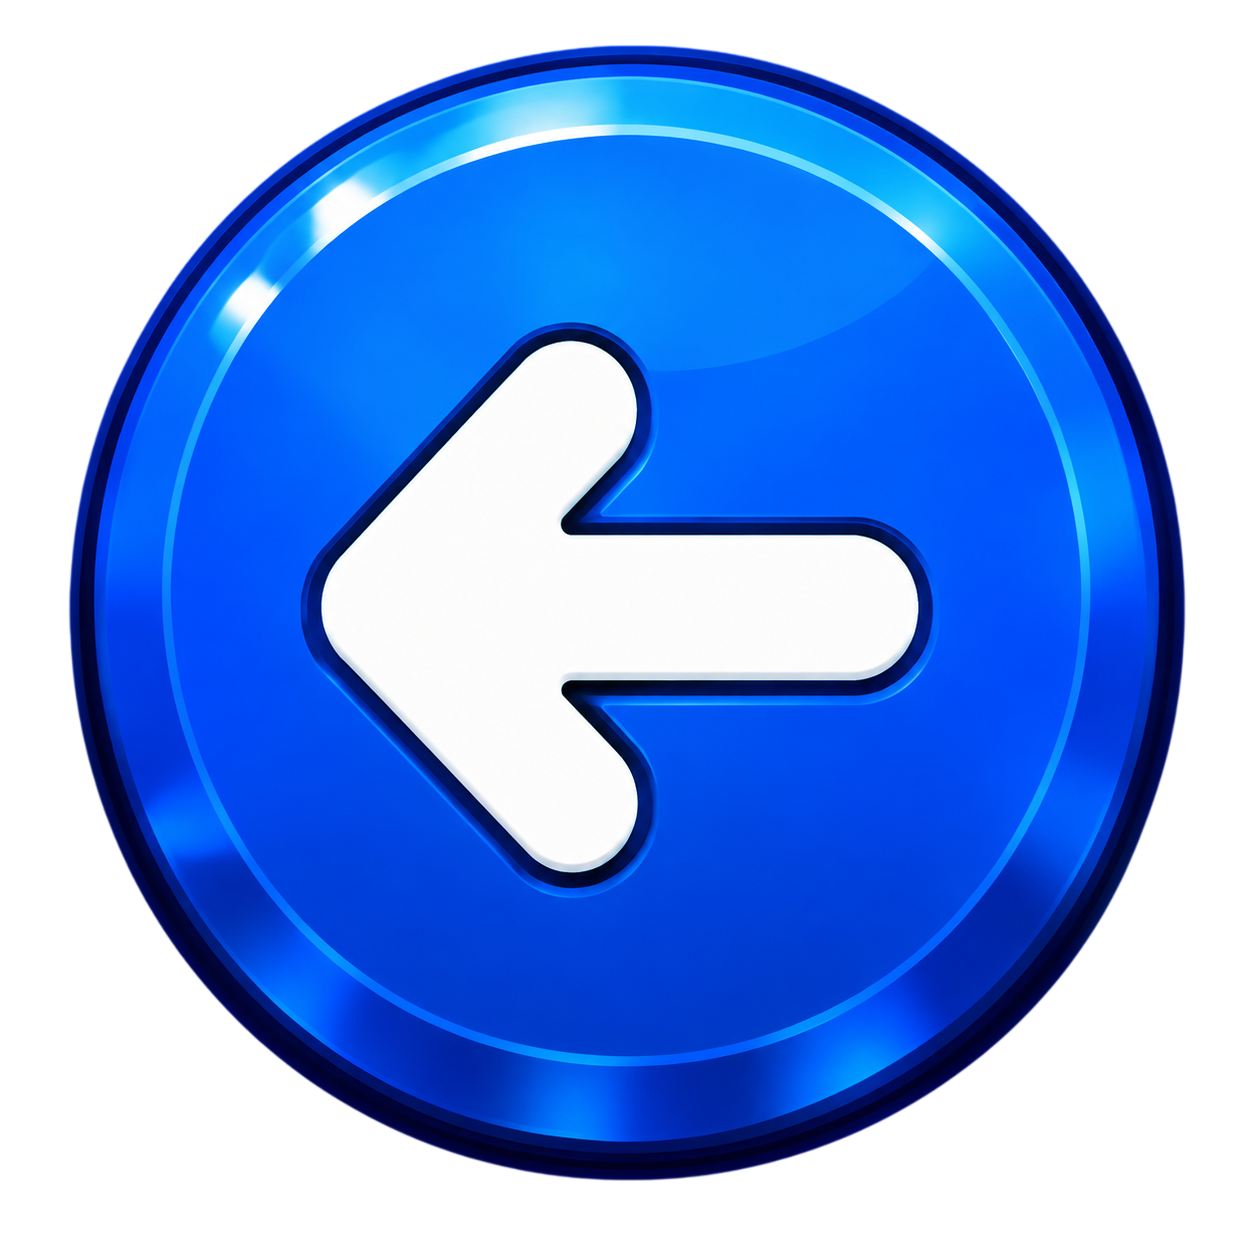
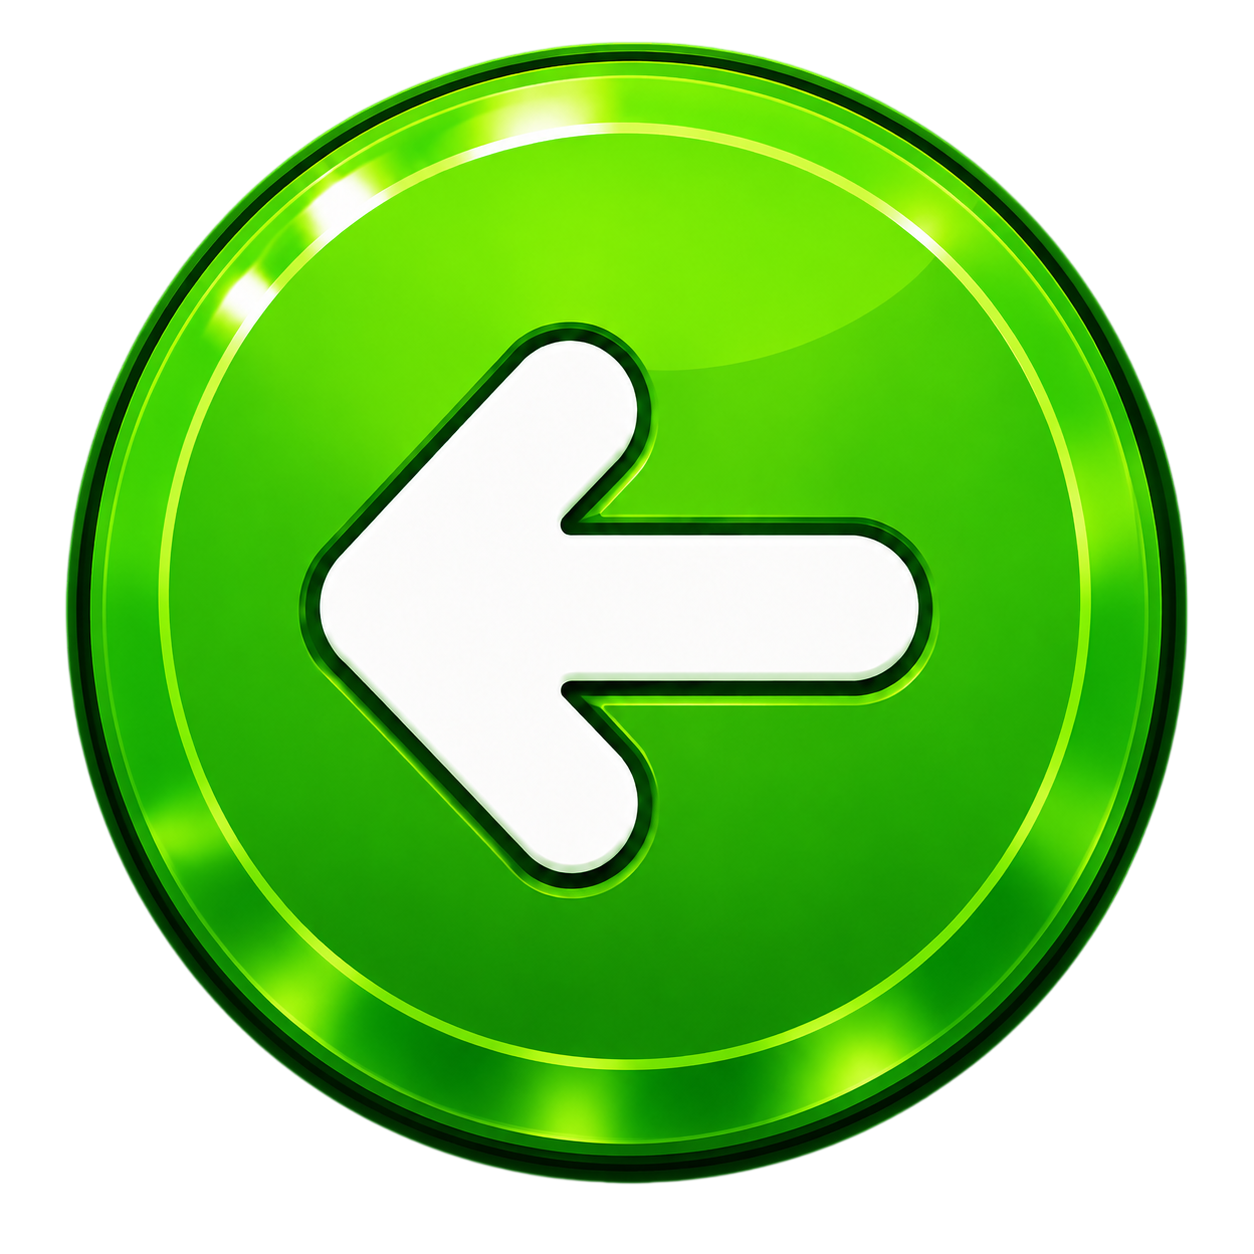
Update image assets, including a new blue button background, and refactor gameplay board dimensions for improved layout consistency and card scaling in various scenes.

diff --git a/src/game/gameplay/MatchingBoard.ts b/src/game/gameplay/MatchingBoard.ts
@@ -1,7 +1,13 @@
 import Phaser from 'phaser';
 
 import { CardView } from './CardView';
-import { gridForCellCount, type GridSize } from '@game/campaign/mapConfig';
+import {
+  BOARD_CARD_FILL,
+  BOARD_CARD_HEIGHT_FILL,
+  BOARD_SIZE_ROWS,
+  gridForCellCount,
+  type GridSize,
+} from '@game/campaign/mapConfig';
 
 interface BoardSlot {
   index: number;
@@ -10,7 +16,8 @@ interface BoardSlot {
 }
 
 export interface MatchingBoardLayout {
-  cardSize: number;
+  cardWidth: number;
+  cardHeight: number;
   slots: BoardSlot[];
   bounds: { x: number; y: number; width: number; height: number };
 }
@@ -18,32 +25,44 @@ export interface MatchingBoardLayout {
 export function layoutMatchingBoard(
   cellCount: number,
   area: { x: number; y: number; width: number; height: number },
-  grid?: GridSize
+  grid?: GridSize,
+  options?: { fill?: number; heightFill?: number; sizeRows?: number }
 ): MatchingBoardLayout {
   const { cols, rows } = grid ?? gridForCellCount(cellCount);
+  const fill = options?.fill ?? BOARD_CARD_FILL;
+  const heightFill = options?.heightFill ?? BOARD_CARD_HEIGHT_FILL;
+  const sizeRows = options?.sizeRows ?? BOARD_SIZE_ROWS;
   const gap = 16;
   const maxW = (area.width - gap * (cols + 1)) / cols;
-  const maxH = (area.height - gap * (rows + 1)) / rows;
-  const cardSize = Math.max(64, Math.round(Math.min(146, maxW, maxH) * 0.94));
-  const gridW = cols * cardSize + (cols - 1) * gap;
-  const gridH = rows * cardSize + (rows - 1) * gap;
+  const maxH = (area.height - gap * (sizeRows + 1)) / sizeRows;
+  const cardWidth = Math.max(64, Math.round(Math.min(146, maxW) * fill));
+  const cardHeight = Math.max(cardWidth, Math.round(maxH * heightFill));
+  const gridW = cols * cardWidth + (cols - 1) * gap;
+  const gridH = rows * cardHeight + (rows - 1) * gap;
   const gridX = area.x + (area.width - gridW) / 2;
   const gridY = area.y + (area.height - gridH) / 2;
-  const originX = gridX + cardSize / 2;
-  const originY = gridY + cardSize / 2;
+  const originX = gridX + cardWidth / 2;
+  const originY = gridY + cardHeight / 2;
 
   const slots: BoardSlot[] = [];
   for (let i = 0; i < cellCount; i += 1) {
     const col = i % cols;
     const row = Math.floor(i / cols);
+    const cardsInRow = Math.min(cols, cellCount - row * cols);
+    const rowOffset = ((cols - cardsInRow) * (cardWidth + gap)) / 2;
     slots.push({
       index: i,
-      x: originX + col * (cardSize + gap),
-      y: originY + row * (cardSize + gap),
+      x: originX + col * (cardWidth + gap) + rowOffset,
+      y: originY + row * (cardHeight + gap),
     });
   }
 
-  return { cardSize, slots, bounds: { x: gridX, y: gridY, width: gridW, height: gridH } };
+  return {
+    cardWidth,
+    cardHeight,
+    slots,
+    bounds: { x: gridX, y: gridY, width: gridW, height: gridH },
+  };
 }
 
 function shuffleInPlace<T>(items: T[]): T[] {
@@ -75,7 +94,15 @@ export function createCards(
   deck: string[]
 ): CardView[] {
   return layout.slots.map((slot, index) => {
-    const card = new CardView(scene, slot.x, slot.y, layout.cardSize, deck[index], slot.index);
+    const card = new CardView(
+      scene,
+      slot.x,
+      slot.y,
+      layout.cardWidth,
+      layout.cardHeight,
+      deck[index],
+      slot.index
+    );
     card.setDepth(10);
     return card;
   });

diff --git a/src/game/scenes/GameOverScene.ts b/src/game/scenes/GameOverScene.ts
@@ -121,8 +121,7 @@ export class GameOverScene extends Phaser.Scene {
     this.returnTo = data.returnTo ?? 'Home';
     this.doubleClaimed = !!data.doubleClaimed;
     this.doubleRequesting = false;
-    this.showDoubleCoins =
-      this.mode === 'infinity' && this.coinsEarned > 0 && !this.doubleClaimed;
+    this.showDoubleCoins = this.mode === 'infinity' && this.coinsEarned > 0 && !this.doubleClaimed;
 
     eventBus.emit('ad:context:change', { context: 'GAME_OVER' });
 
@@ -211,7 +210,7 @@ export class GameOverScene extends Phaser.Scene {
       scene: this,
       position: { x: centerX, y: buttonY },
       size: { width: BUTTON_WIDTH, height: BUTTON_HEIGHT },
-      background: { key: 'settings-button-background' },
+      background: { key: 'blue-button-background' },
       depth: 3,
       text: {
         content: t('game.retry'),
@@ -285,7 +284,7 @@ export class GameOverScene extends Phaser.Scene {
       scene: this,
       position: { x: centerX, y: buttonY },
       size: { width: BUTTON_WIDTH, height: CAMPAIGN_BUTTON_HEIGHT },
-      background: { key: 'settings-button-background' },
+      background: { key: 'blue-button-background' },
       depth: 3,
       text: {
         content: t('game.retry'),
@@ -338,7 +337,7 @@ export class GameOverScene extends Phaser.Scene {
 
   private addStarsBlock(centerX: number, y: number): void {
     this.add
-      .text(centerX, y - 46, t('game.yourStars'), {
+      .text(centerX, y - 58, t('game.yourStars'), {
         color: TEXT_COLOR,
         fontSize: '22px',
         fontStyle: 'bold',
@@ -349,8 +348,8 @@ export class GameOverScene extends Phaser.Scene {
 
     for (let i = 0; i < 3; i += 1) {
       const key = i < this.stars ? 'star-active' : 'star-inactive';
-      const star = this.add.image(centerX + (i - 1) * 64, y, key).setDepth(2);
-      star.setDisplaySize(56, 56);
+      const star = this.add.image(centerX + (i - 1) * 92, y, key).setDepth(2);
+      star.setDisplaySize(80, 80);
     }
   }
 

diff --git a/src/game/scenes/GameplayScene.ts b/src/game/scenes/GameplayScene.ts
@@ -22,8 +22,8 @@ import {
 import {
   EXTRA_TIME_SECONDS,
   FLIP_BACK_DELAY_MS,
+  BOARD_PAD_X,
   INFINITY_BOARD_SIZE,
-  INFINITY_GRID,
   INFINITY_COINS_PER_MATCH,
   INFINITY_FAST_MATCH_BONUS,
   INFINITY_FAST_MATCH_MS,
@@ -201,21 +201,16 @@ export class GameplayScene extends Phaser.Scene {
   }
 
   private buildBoard(width: number, height: number, restored?: GameRunSnapshot | null): void {
-    const top = this.mode === 'infinity' ? 220 : 250;
+    const top = 220;
     const bottom = Math.min(this.skillBar.barBottom - 24, height - 220);
     const cellCount =
       this.mode === 'infinity' ? INFINITY_BOARD_SIZE : getLevelCellCount(this.levelIndex);
-    const padX = this.mode === 'infinity' ? 64 : 24;
-    this.layout = layoutMatchingBoard(
-      cellCount,
-      {
-        x: padX,
-        y: top,
-        width: width - padX * 2,
-        height: Math.max(280, bottom - top),
-      },
-      this.mode === 'infinity' ? INFINITY_GRID : undefined
-    );
+    this.layout = layoutMatchingBoard(cellCount, {
+      x: BOARD_PAD_X,
+      y: top,
+      width: width - BOARD_PAD_X * 2,
+      height: Math.max(280, bottom - top),
+    });
 
     this.drawBoardPanel(this.layout.bounds);
 
@@ -412,7 +407,8 @@ export class GameplayScene extends Phaser.Scene {
         this,
         slot.x,
         slot.y,
-        this.layout.cardSize,
+        this.layout.cardWidth,
+        this.layout.cardHeight,
         deck[slot.index],
         slot.index
       );
@@ -660,7 +656,8 @@ export class GameplayScene extends Phaser.Scene {
         this,
         slot.x,
         slot.y,
-        this.layout.cardSize,
+        this.layout.cardWidth,
+        this.layout.cardHeight,
         saved.pairKey,
         saved.slotIndex
       );

diff --git a/src/game/campaign/mapConfig.ts b/src/game/campaign/mapConfig.ts
@@ -28,8 +28,8 @@ export const STAR_THRESHOLDS = {
 export const INFINITY_INITIAL_TIME = 60;
 export const INFINITY_MATCH_BONUS_START = 5;
 export const INFINITY_MATCH_BONUS_MIN = 3;
-/** 3×4 = 12 cards / 6 pairs. */
-export const INFINITY_BOARD_SIZE = 12;
+/** 4×5 = 20 cards / 10 pairs. */
+export const INFINITY_BOARD_SIZE = 20;
 export const INFINITY_WAVE_MATCHES = 8;
 export const INFINITY_COINS_PER_MATCH = 10;
 export const INFINITY_BASE_PAIR_SCORE = 100;
@@ -111,21 +111,17 @@ export interface GridSize {
   rows: number;
 }
 
-export const INFINITY_GRID: GridSize = { cols: 3, rows: 4 };
+/** Shared gameplay board: 4 columns; card size is computed as if the board were 5 rows. */
+export const BOARD_COLS = 4;
+export const BOARD_SIZE_ROWS = 5;
+export const BOARD_PAD_X = 64;
+export const BOARD_CARD_FILL = 0.78;
+export const BOARD_CARD_HEIGHT_FILL = 0.9;
 
-const GRID_BY_CELLS: Record<number, GridSize> = {
-  2: { cols: 2, rows: 1 },
-  4: { cols: 2, rows: 2 },
-  6: { cols: 3, rows: 2 },
-  8: { cols: 3, rows: 3 },
-  12: { cols: 3, rows: 4 },
-  16: { cols: 3, rows: 6 },
-  18: { cols: 3, rows: 6 },
-  24: { cols: 3, rows: 8 },
-};
+export const INFINITY_GRID: GridSize = { cols: BOARD_COLS, rows: BOARD_SIZE_ROWS };
 
 export function gridForCellCount(cellCount: number): GridSize {
-  return GRID_BY_CELLS[cellCount] ?? { cols: 3, rows: Math.ceil(cellCount / 3) };
+  return { cols: BOARD_COLS, rows: Math.max(1, Math.ceil(cellCount / BOARD_COLS)) };
 }
 
 /** Newest card is always included; fill the rest from newer → older. */

diff --git a/src/game/gameplay/CardView.ts b/src/game/gameplay/CardView.ts
@@ -16,7 +16,8 @@ export class CardView extends Phaser.GameObjects.Container {
     scene: Phaser.Scene,
     x: number,
     y: number,
-    cardSize: number,
+    cardWidth: number,
+    cardHeight: number,
     pairKey: string,
     slotIndex: number
   ) {
@@ -25,20 +26,21 @@ export class CardView extends Phaser.GameObjects.Container {
     this.slotIndex = slotIndex;
 
     this.back = scene.add.image(0, 0, 'card-back');
-    this.back.setDisplaySize(cardSize, cardSize);
+    this.back.setDisplaySize(cardWidth, cardHeight);
 
     this.front = scene.add.container(0, 0);
     const frame = scene.add.image(0, 0, 'card-front');
-    frame.setDisplaySize(cardSize, cardSize);
+    frame.setDisplaySize(cardWidth, cardHeight);
     const art = scene.add.image(0, 0, pairKey);
-    const artSize = cardSize * 0.62;
-    const scale = Math.min(artSize / art.width, artSize / art.height);
+    const artMaxW = cardWidth * 0.62;
+    const artMaxH = cardHeight * 0.62;
+    const scale = Math.min(artMaxW / art.width, artMaxH / art.height);
     art.setDisplaySize(art.width * scale, art.height * scale);
     this.front.add([frame, art]);
     this.front.setVisible(false);
 
     this.add([this.back, this.front]);
-    this.setSize(cardSize, cardSize);
+    this.setSize(cardWidth, cardHeight);
     this.setInteractive({ useHandCursor: true });
     scene.add.existing(this);
   }

diff --git a/src/game/scenes/PreloadScene.ts b/src/game/scenes/PreloadScene.ts
@@ -83,6 +83,7 @@ const IMAGE_ASSETS: ImageAsset[] = [
   { key: 'share-button-background', path: '/assets/images/share-button-background.png' },
   { key: 'general-background-image', path: '/assets/images/general-background-image.webp' },
   { key: 'gameover-background-image', path: '/assets/images/gameover-background-image.webp' },
+  { key: 'blue-button-background', path: '/assets/images/blue-button-background.png' },
   { key: 'settings-button-background', path: '/assets/images/settings-button-background.png' },
 ];
 
@@ -129,8 +130,9 @@ const FALLBACK_TEXTURES: FallbackTexture[] = [
   { key: 'general-background-image', width: 16, height: 16, color: 0x16213e },
   { key: 'share-button-background', width: 265, height: 98, color: 0xe67e22 },
   { key: 'gameover-background-image', width: 16, height: 16, color: 0x16213e },
-  { key: 'settings-button-background', width: 256, height: 78, color: 0x4a90d9 },
+  { key: 'blue-button-background', width: 256, height: 78, color: 0x4a90d9 },
   { key: 'leaderboard-button-background', width: 256, height: 78, color: 0x4a90d9 },
+  { key: 'settings-button-background', width: 256, height: 78, color: 0xe67e22 },
 ];
 
 const CARD_COUNT = 8;

diff --git a/src/game/gameplay/SkillBarView.ts b/src/game/gameplay/SkillBarView.ts
@@ -33,6 +33,11 @@ export class SkillBarView {
   private readonly panelPadBottom = 30;
   /** Nudge skill icons/arrows down inside the bar. */
   private readonly itemNudgeY = 6;
+  /** Outer skills: item 1 left, item 3 right. */
+  private readonly itemNudgeX: Partial<Record<SkillId, number>> = {
+    boost_reveal: -12,
+    boost_lucky_clover: 12,
+  };
   private readonly skillVisibleCount = 4;
   private readonly maxPanelWidthPx = 540;
   private readonly idealSlotSpacing = 118;
@@ -389,7 +394,9 @@ export class SkillBarView {
     const alignCount =
       owned <= this.skillVisibleCount ? Math.max(owned, 1) : this.skillVisibleCount;
     const leftmost = alignCount <= 1 ? 0 : -((alignCount - 1) * this.skillSlotSpacing) / 2;
-    return leftmost + index * this.skillSlotSpacing;
+    const id = this.ownedSkillIds[index];
+    const nudge = id ? (this.itemNudgeX[id] ?? 0) : 0;
+    return leftmost + index * this.skillSlotSpacing + nudge;
   }
 
   private maxScrollIndex(): number {

diff --git a/src/game/scenes/LevelSelectScene.ts b/src/game/scenes/LevelSelectScene.ts
@@ -4,6 +4,7 @@ import { t, toast } from '@platform/ui';
 import { eventBus } from '@platform/core/events';
 import { FREDOKA_FONT } from '@platform/ui/fonts';
 import { createUIButton } from '@platform/ui/button/UIButton';
+import { soundManager } from '@platform/ui/audio/SoundManager';
 import { drawRoundedRect } from '@platform/ui/panel/graphics';
 import { PANEL_BG, PANEL_BORDER, PANEL_CORNER_RADIUS } from '@platform/ui/panel/panelTheme';
 import { getMapDefinition, mapBackgroundKey } from '@game/campaign/mapConfig';
@@ -237,6 +238,7 @@ export class LevelSelectScene extends Phaser.Scene {
   }
 
   private onLevelTap(levelIndex: number, mapUnlocked: boolean, playable: boolean): void {
+    soundManager.playPop();
     if (!mapUnlocked) {
       toast.show({ message: t('map.mapLocked'), type: 'warning' });
       return;

diff --git a/src/game/scenes/MapScene.ts b/src/game/scenes/MapScene.ts
@@ -4,6 +4,7 @@ import { t, toast } from '@platform/ui';
 import { eventBus } from '@platform/core/events';
 import { FREDOKA_FONT } from '@platform/ui/fonts';
 import { createUIButton } from '@platform/ui/button/UIButton';
+import { soundManager } from '@platform/ui/audio/SoundManager';
 import { drawRoundedRect } from '@platform/ui/panel/graphics';
 import { PANEL_BG, PANEL_BORDER, PANEL_CORNER_RADIUS } from '@platform/ui/panel/panelTheme';
 import {
@@ -297,6 +298,7 @@ export class MapScene extends Phaser.Scene {
   }
 
   private onMapTap(mapId: number): void {
+    soundManager.playPop();
     if (!isMapUnlocked(mapId)) {
       toast.show({ message: t('map.mapLocked'), type: 'warning' });
       return;

diff --git a/src/platform/ui/missions/MissionsPanel.ts b/src/platform/ui/missions/MissionsPanel.ts
@@ -339,7 +339,7 @@ export class MissionsPanel extends Phaser.GameObjects.Container {
       scene: this.scene,
       position: { x, y: 0 },
       size: { width: ACTION_BTN_WIDTH, height: ACTION_BTN_HEIGHT },
-      background: { key: 'settings-button-background' },
+      background: { key: 'blue-button-background' },
       text: {
         content: t('missions.go'),
         style: {

diff --git a/src/platform/ui/rate/RateAppModal.ts b/src/platform/ui/rate/RateAppModal.ts
@@ -132,7 +132,7 @@ export class RateAppModal {
         scene: this.scene,
         position: { x: centerX, y: laterY },
         size: { width: buttonWidth, height: buttonHeight },
-        background: { key: 'settings-button-background' },
+        background: { key: 'blue-button-background' },
         text: {
           content: t('rateApp.later'),
           style: {
